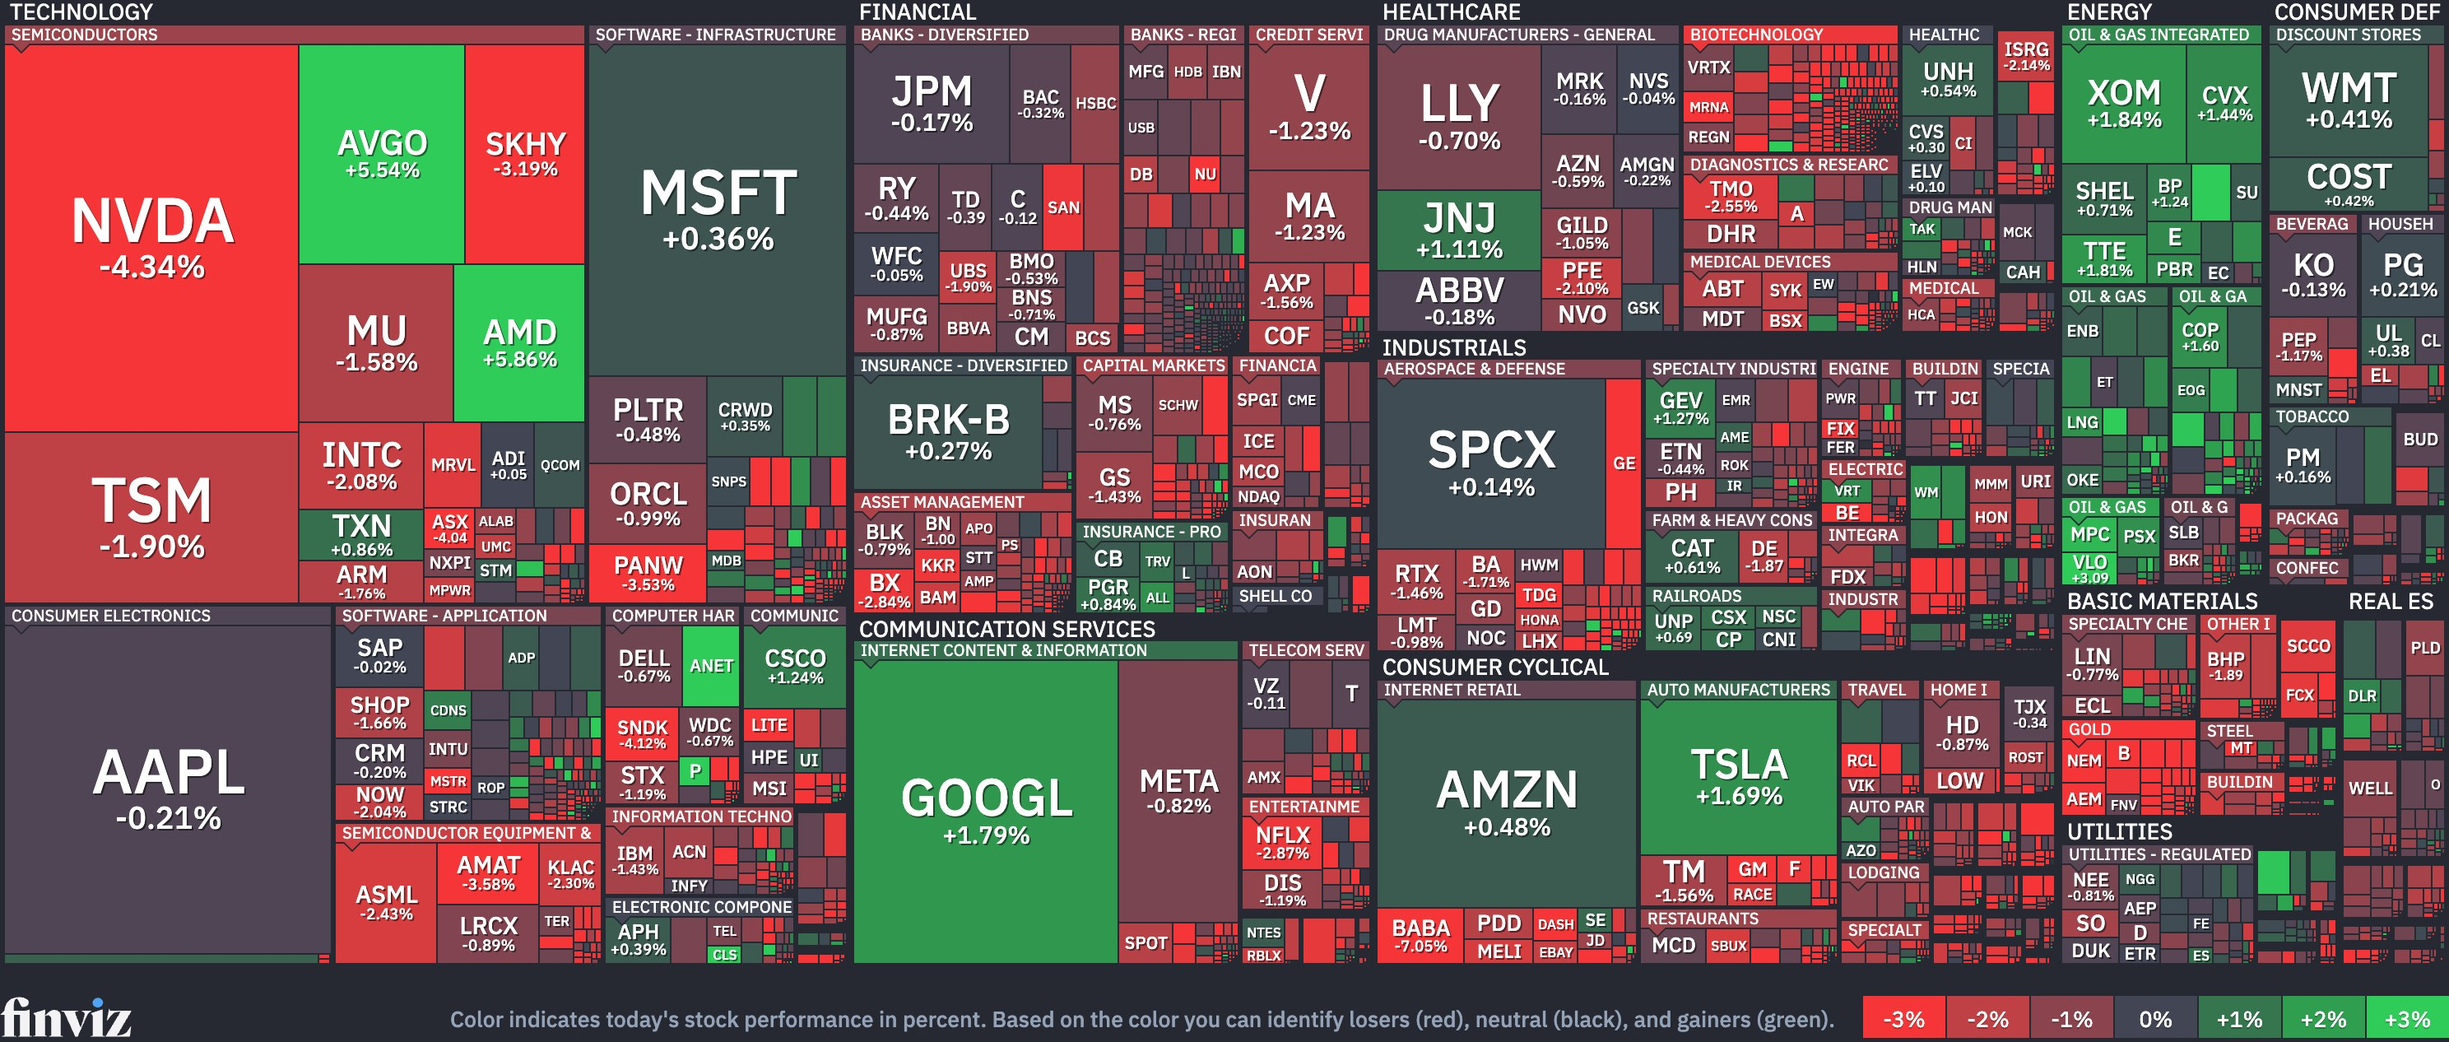
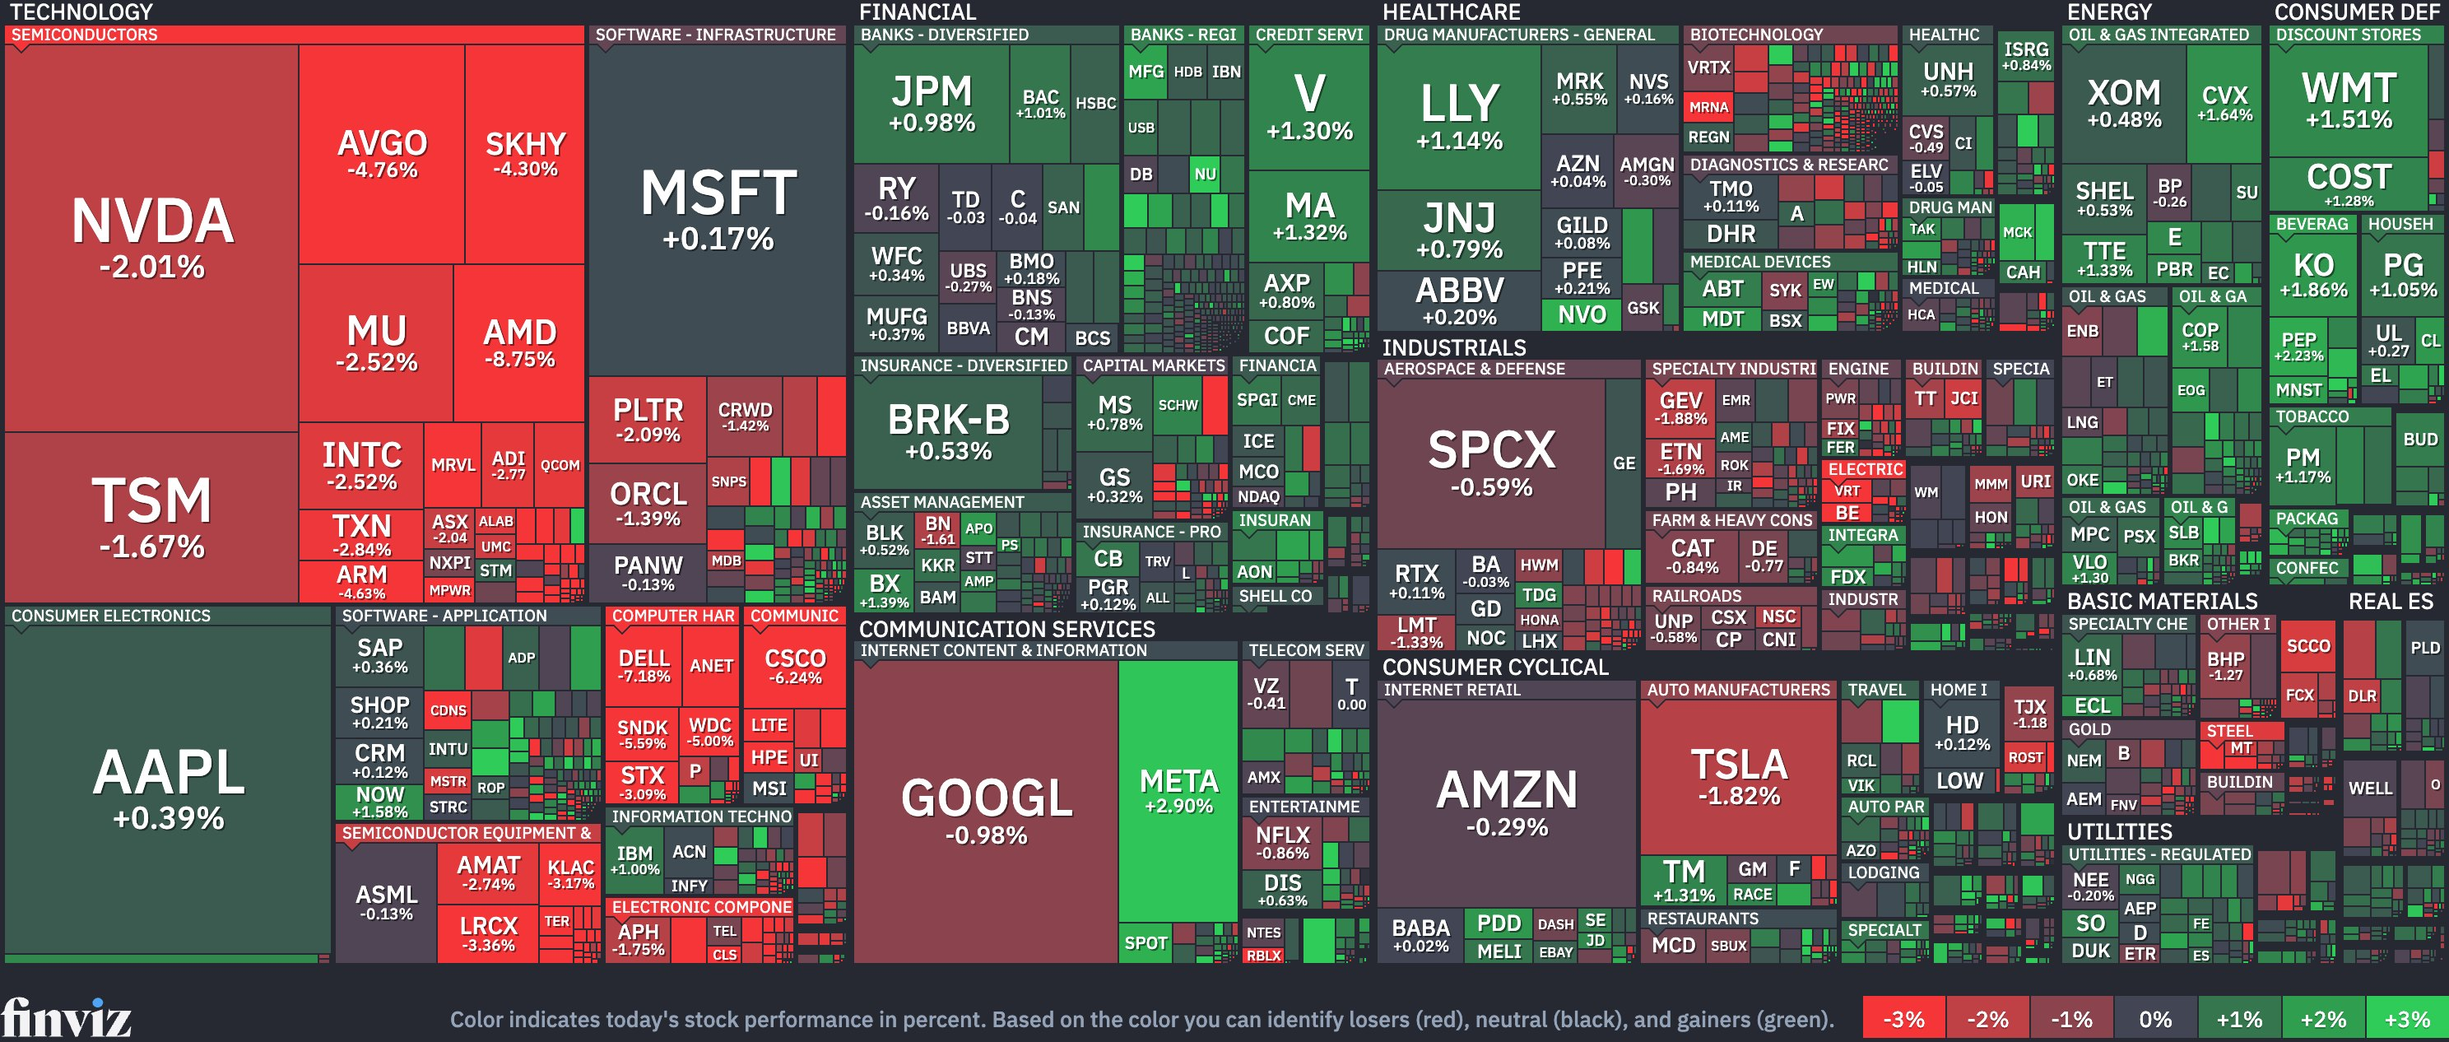
STOCK MAP 갱신 Fri NOV 13, 7:50 PM ET

diff --git a/index.html b/index.html
@@ -117,7 +117,7 @@ footer{margin-top:34px;font-size:12px;color:#7A867C;text-align:center;line-heigh
 <div class="hd"><div class="kicker">STRUCTURE &amp; BOTTLENECKS</div><h1>Report Vault</h1>
 <p>매크로·산업·기업 분석 기록을 모아 읽는 보고서 자료실.</p></div>
 <div class="board"><div class="bhd"><span class="bt">MARKET BOARD</span><span class="bu">11/14 09:50 KST 기준</span></div><div class="bgrid main"><div class="tile up"><div class="tl">DJIA</div><div class="tv">52,347.55</div><div class="tc">▲ +50.46<span class="tp">+0.10%</span></div><svg class="spk" viewBox="0 0 100 26" preserveAspectRatio="none" role="img" aria-label="최근 1개월 10-12→11-13 · 최저 51,285.73 · 최고 53,356.12 · +1.0%"><title>최근 1개월 10-12→11-13 · 최저 51,285.73 · 최고 53,356.12 · +1.0%</title><polygon points="0,26 0.0,18.0 4.2,19.9 8.3,20.4 12.5,14.5 16.7,16.4 20.8,16.8 25.0,11.1 29.2,7.3 33.3,7.2 37.5,14.1 41.7,12.6 45.8,12.4 50.0,11.4 54.2,12.8 58.3,18.9 62.5,16.6 66.7,18.7 70.8,2.0 75.0,21.5 79.2,24.0 83.3,12.3 87.5,13.9 91.7,11.2 95.8,13.3 100.0,12.7 100,26" fill="#1F8A5B" fill-opacity=".10"/><polyline points="0.0,18.0 4.2,19.9 8.3,20.4 12.5,14.5 16.7,16.4 20.8,16.8 25.0,11.1 29.2,7.3 33.3,7.2 37.5,14.1 41.7,12.6 45.8,12.4 50.0,11.4 54.2,12.8 58.3,18.9 62.5,16.6 66.7,18.7 70.8,2.0 75.0,21.5 79.2,24.0 83.3,12.3 87.5,13.9 91.7,11.2 95.8,13.3 100.0,12.7" fill="none" stroke="#1F8A5B" stroke-width="1.6" vector-effect="non-scaling-stroke" stroke-linejoin="round"/></svg><span class="ta">TradingView · 4:53 PM EST</span></div><div class="tile down"><div class="tl">S&amp;P 500</div><div class="tv">7,561.67</div><div class="tc">▼ −30.73<span class="tp">−0.40%</span></div><svg class="spk" viewBox="0 0 100 26" preserveAspectRatio="none" role="img" aria-label="최근 1개월 10-12→11-13 · 최저 7,353.73 · 최고 7,807.24 · -3.1%"><title>최근 1개월 10-12→11-13 · 최저 7,353.73 · 최고 7,807.24 · -3.1%</title><polygon points="0,26 0.0,2.0 4.2,2.1 8.3,6.3 12.5,5.1 16.7,9.2 20.8,7.7 25.0,6.6 29.2,4.4 33.3,9.0 37.5,10.9 41.7,8.3 45.8,6.1 50.0,5.1 54.2,6.2 58.3,13.0 62.5,14.9 66.7,13.6 70.8,7.8 75.0,24.0 79.2,22.9 83.3,14.5 87.5,15.9 91.7,11.1 95.8,12.4 100.0,13.9 100,26" fill="#C0442E" fill-opacity=".10"/><polyline points="0.0,2.0 4.2,2.1 8.3,6.3 12.5,5.1 16.7,9.2 20.8,7.7 25.0,6.6 29.2,4.4 33.3,9.0 37.5,10.9 41.7,8.3 45.8,6.1 50.0,5.1 54.2,6.2 58.3,13.0 62.5,14.9 66.7,13.6 70.8,7.8 75.0,24.0 79.2,22.9 83.3,14.5 87.5,15.9 91.7,11.1 95.8,12.4 100.0,13.9" fill="none" stroke="#C0442E" stroke-width="1.6" vector-effect="non-scaling-stroke" stroke-linejoin="round"/></svg><span class="ta">TradingView · 4:53 PM EST</span></div><div class="tile down"><div class="tl">NASDAQ</div><div class="tv">25,136.273</div><div class="tc">▼ −229.820<span class="tp">−0.91%</span></div><svg class="spk" viewBox="0 0 100 26" preserveAspectRatio="none" role="img" aria-label="최근 1개월 10-12→11-13 · 최저 24,315.00 · 최고 27,245.90 · -7.7%"><title>최근 1개월 10-12→11-13 · 최저 24,315.00 · 최고 27,245.90 · -7.7%</title><polygon points="0,26 0.0,2.0 4.2,2.3 8.3,6.2 12.5,6.0 16.7,10.3 20.8,8.1 25.0,8.2 29.2,6.1 33.3,11.3 37.5,11.7 41.7,10.1 45.8,7.8 50.0,7.2 54.2,10.0 58.3,15.6 62.5,17.6 66.7,16.1 70.8,13.3 75.0,24.0 79.2,22.0 83.3,17.0 87.5,18.4 91.7,15.4 95.8,16.1 100.0,17.8 100,26" fill="#C0442E" fill-opacity=".10"/><polyline points="0.0,2.0 4.2,2.3 8.3,6.2 12.5,6.0 16.7,10.3 20.8,8.1 25.0,8.2 29.2,6.1 33.3,11.3 37.5,11.7 41.7,10.1 45.8,7.8 50.0,7.2 54.2,10.0 58.3,15.6 62.5,17.6 66.7,16.1 70.8,13.3 75.0,24.0 79.2,22.0 83.3,17.0 87.5,18.4 91.7,15.4 95.8,16.1 100.0,17.8" fill="none" stroke="#C0442E" stroke-width="1.6" vector-effect="non-scaling-stroke" stroke-linejoin="round"/></svg><span class="ta">TradingView · 7:49 PM EST</span></div><div class="tile down"><div class="tl">RUSSELL 2000</div><div class="tv">2,790.49</div><div class="tc">▼ −8.57<span class="tp">−0.31%</span></div><svg class="spk" viewBox="0 0 100 26" preserveAspectRatio="none" role="img" aria-label="최근 1개월 10-12→11-13 · 최저 2,721.37 · 최고 2,859.22 · -0.1%"><title>최근 1개월 10-12→11-13 · 최저 2,721.37 · 최고 2,859.22 · -0.1%</title><polygon points="0,26 0.0,12.3 4.2,14.1 8.3,22.7 12.5,16.7 16.7,24.0 20.8,22.9 25.0,15.7 29.2,14.5 33.3,14.0 37.5,15.3 41.7,13.6 45.8,8.4 50.0,6.6 54.2,2.0 58.3,9.6 62.5,10.5 66.7,9.5 70.8,2.4 75.0,22.6 79.2,18.8 83.3,4.9 87.5,8.0 91.7,4.1 95.8,11.6 100.0,13.0 100,26" fill="#C0442E" fill-opacity=".10"/><polyline points="0.0,12.3 4.2,14.1 8.3,22.7 12.5,16.7 16.7,24.0 20.8,22.9 25.0,15.7 29.2,14.5 33.3,14.0 37.5,15.3 41.7,13.6 45.8,8.4 50.0,6.6 54.2,2.0 58.3,9.6 62.5,10.5 66.7,9.5 70.8,2.4 75.0,22.6 79.2,18.8 83.3,4.9 87.5,8.0 91.7,4.1 95.8,11.6 100.0,13.0" fill="none" stroke="#C0442E" stroke-width="1.6" vector-effect="non-scaling-stroke" stroke-linejoin="round"/></svg><span class="ta">TradingView · 4:03 PM EST</span></div><div class="tile up"><div class="tl">US 10-YR</div><div class="tv">5.139%</div><div class="tc">▲ +0.006</div><svg class="spk" viewBox="0 0 100 26" preserveAspectRatio="none" role="img" aria-label="최근 1개월 10-12→11-13 · 최저 4.84 · 최고 5.24 · -1.6%"><title>최근 1개월 10-12→11-13 · 최저 4.84 · 최고 5.24 · -1.6%</title><polygon points="0,26 0.0,2.0 4.2,3.3 8.3,4.7 12.5,10.2 16.7,9.8 20.8,7.7 25.0,8.7 29.2,7.1 33.3,17.7 37.5,15.8 41.7,15.9 45.8,15.5 50.0,12.6 54.2,15.7 58.3,19.0 62.5,20.9 66.7,17.7 70.8,20.9 75.0,24.0 79.2,22.8 83.3,22.5 87.5,16.0 91.7,15.2 95.8,9.5 100.0,6.7 100,26" fill="#C0442E" fill-opacity=".10"/><polyline points="0.0,2.0 4.2,3.3 8.3,4.7 12.5,10.2 16.7,9.8 20.8,7.7 25.0,8.7 29.2,7.1 33.3,17.7 37.5,15.8 41.7,15.9 45.8,15.5 50.0,12.6 54.2,15.7 58.3,19.0 62.5,20.9 66.7,17.7 70.8,20.9 75.0,24.0 79.2,22.8 83.3,22.5 87.5,16.0 91.7,15.2 95.8,9.5 100.0,6.7" fill="none" stroke="#C0442E" stroke-width="1.6" vector-effect="non-scaling-stroke" stroke-linejoin="round"/></svg><span class="ta">TradingView · 5:30 PM EST</span></div><div class="tile down"><div class="tl">US 2-YR</div><div class="tv">4.852%</div><div class="tc">▼ −0.032</div><svg class="spk" viewBox="0 0 100 26" preserveAspectRatio="none" role="img" aria-label="최근 1개월 10-13→11-12 · 최저 4.46 · 최고 4.86 · +1.5%"><title>최근 1개월 10-13→11-12 · 최저 4.46 · 최고 4.86 · +1.5%</title><polygon points="0,26 0.0,5.9 4.8,4.2 9.5,7.0 14.3,8.6 19.0,7.0 23.8,5.9 28.6,4.8 33.3,13.5 38.1,11.3 42.9,11.9 47.6,10.8 52.4,12.5 57.1,15.7 61.9,18.5 66.7,16.9 71.4,15.7 76.2,17.4 81.0,24.0 85.7,21.3 90.5,18.5 95.2,9.1 100.0,2.0 100,26" fill="#1F8A5B" fill-opacity=".10"/><polyline points="0.0,5.9 4.8,4.2 9.5,7.0 14.3,8.6 19.0,7.0 23.8,5.9 28.6,4.8 33.3,13.5 38.1,11.3 42.9,11.9 47.6,10.8 52.4,12.5 57.1,15.7 61.9,18.5 66.7,16.9 71.4,15.7 76.2,17.4 81.0,24.0 85.7,21.3 90.5,18.5 95.2,9.1 100.0,2.0" fill="none" stroke="#1F8A5B" stroke-width="1.6" vector-effect="non-scaling-stroke" stroke-linejoin="round"/></svg><span class="ta">TradingView · 5:30 PM EST</span></div><div class="tile up"><div class="tl">GOLD</div><div class="tv">3,886.30</div><div class="tc">▲ +1.00<span class="tp">+0.03%</span></div><svg class="spk" viewBox="0 0 100 26" preserveAspectRatio="none" role="img" aria-label="최근 1개월 10-12→11-13 · 최저 3,885.30 · 최고 4,190.60 · -7.2%"><title>최근 1개월 10-12→11-13 · 최저 3,885.30 · 최고 4,190.60 · -7.2%</title><polygon points="0,26 0.0,2.0 4.2,3.0 8.3,8.0 12.5,3.5 16.7,2.7 20.8,4.2 25.0,5.5 29.2,4.9 33.3,11.4 37.5,15.2 41.7,13.0 45.8,10.4 50.0,12.0 54.2,13.5 58.3,23.0 62.5,17.9 66.7,20.0 70.8,10.5 75.0,7.6 79.2,10.3 83.3,7.5 87.5,13.6 91.7,15.7 95.8,24.0 100.0,23.8 100,26" fill="#C0442E" fill-opacity=".10"/><polyline points="0.0,2.0 4.2,3.0 8.3,8.0 12.5,3.5 16.7,2.7 20.8,4.2 25.0,5.5 29.2,4.9 33.3,11.4 37.5,15.2 41.7,13.0 45.8,10.4 50.0,12.0 54.2,13.5 58.3,23.0 62.5,17.9 66.7,20.0 70.8,10.5 75.0,7.6 79.2,10.3 83.3,7.5 87.5,13.6 91.7,15.7 95.8,24.0 100.0,23.8" fill="none" stroke="#C0442E" stroke-width="1.6" vector-effect="non-scaling-stroke" stroke-linejoin="round"/></svg><span class="ta">TradingView · 6:14 PM EST</span></div><div class="tile down"><div class="tl">OIL</div><div class="tv">88.56</div><div class="tc">▼ −0.18<span class="tp">−0.20%</span></div><svg class="spk" viewBox="0 0 100 26" preserveAspectRatio="none" role="img" aria-label="최근 1개월 10-12→11-13 · 최저 86.04 · 최고 104.12 · -5.1%"><title>최근 1개월 10-12→11-13 · 최저 86.04 · 최고 104.12 · -5.1%</title><polygon points="0,26 0.0,14.6 4.2,14.1 8.3,13.0 12.5,9.5 16.7,5.3 20.8,2.6 25.0,4.8 29.2,10.5 33.3,7.7 37.5,3.0 41.7,4.9 45.8,7.1 50.0,3.6 54.2,4.6 58.3,2.0 62.5,11.3 66.7,11.8 70.8,21.5 75.0,18.5 79.2,18.2 83.3,23.0 87.5,24.0 91.7,23.4 95.8,20.7 100.0,20.5 100,26" fill="#C0442E" fill-opacity=".10"/><polyline points="0.0,14.6 4.2,14.1 8.3,13.0 12.5,9.5 16.7,5.3 20.8,2.6 25.0,4.8 29.2,10.5 33.3,7.7 37.5,3.0 41.7,4.9 45.8,7.1 50.0,3.6 54.2,4.6 58.3,2.0 62.5,11.3 66.7,11.8 70.8,21.5 75.0,18.5 79.2,18.2 83.3,23.0 87.5,24.0 91.7,23.4 95.8,20.7 100.0,20.5" fill="none" stroke="#C0442E" stroke-width="1.6" vector-effect="non-scaling-stroke" stroke-linejoin="round"/></svg><span class="ta">TradingView · 5:10 PM EST</span></div></div><div class="bgrid risk"><div class="tile down"><div class="tl">F&amp;G</div><div class="tv">39</div><div class="tc">▼ −1<span class="tg fg-f">공포</span></div><svg class="spk" viewBox="0 0 100 26" preserveAspectRatio="none" role="img" aria-label="최근 1개월 10-12→11-13 · 최저 16.69 · 최고 45.60 · -14.7%"><title>최근 1개월 10-12→11-13 · 최저 16.69 · 최고 45.60 · -14.7%</title><polygon points="0,26 0.0,2.3 4.2,2.0 8.3,14.8 12.5,12.3 16.7,22.8 20.8,21.9 25.0,14.8 29.2,13.7 33.3,21.5 37.5,24.0 41.7,14.0 45.8,11.7 50.0,10.5 54.2,13.3 58.3,16.7 62.5,21.9 66.7,18.8 70.8,10.7 75.0,21.5 79.2,18.2 83.3,12.7 87.5,8.3 91.7,9.4 95.8,6.0 100.0,7.3 100,26" fill="#C0442E" fill-opacity=".10"/><polyline points="0.0,2.3 4.2,2.0 8.3,14.8 12.5,12.3 16.7,22.8 20.8,21.9 25.0,14.8 29.2,13.7 33.3,21.5 37.5,24.0 41.7,14.0 45.8,11.7 50.0,10.5 54.2,13.3 58.3,16.7 62.5,21.9 66.7,18.8 70.8,10.7 75.0,21.5 79.2,18.2 83.3,12.7 87.5,8.3 91.7,9.4 95.8,6.0 100.0,7.3" fill="none" stroke="#C0442E" stroke-width="1.6" vector-effect="non-scaling-stroke" stroke-linejoin="round"/></svg><span class="ta">CNN · 11/13</span></div><div class="tile up"><div class="tl">VIX</div><div class="tv">19.30</div><div class="tc">▲ +0.60<span class="tp">+3.21%</span></div><svg class="spk" viewBox="0 0 100 26" preserveAspectRatio="none" role="img" aria-label="최근 1개월 10-12→11-13 · 최저 15.21 · 최고 28.18 · +26.9%"><title>최근 1개월 10-12→11-13 · 최저 15.21 · 최고 28.18 · +26.9%</title><polygon points="0,26 0.0,24.0 4.2,23.9 8.3,21.2 12.5,21.9 16.7,15.9 20.8,18.5 25.0,20.4 29.2,21.5 33.3,17.5 37.5,16.8 41.7,18.6 45.8,20.1 50.0,21.1 54.2,20.6 58.3,16.9 62.5,13.9 66.7,14.5 70.8,21.6 75.0,2.0 79.2,6.3 83.3,16.0 87.5,16.8 91.7,20.1 95.8,18.1 100.0,17.1 100,26" fill="#1F8A5B" fill-opacity=".10"/><polyline points="0.0,24.0 4.2,23.9 8.3,21.2 12.5,21.9 16.7,15.9 20.8,18.5 25.0,20.4 29.2,21.5 33.3,17.5 37.5,16.8 41.7,18.6 45.8,20.1 50.0,21.1 54.2,20.6 58.3,16.9 62.5,13.9 66.7,14.5 70.8,21.6 75.0,2.0 79.2,6.3 83.3,16.0 87.5,16.8 91.7,20.1 95.8,18.1 100.0,17.1" fill="none" stroke="#1F8A5B" stroke-width="1.6" vector-effect="non-scaling-stroke" stroke-linejoin="round"/></svg><span class="ta">TradingView · 4:30 PM EST</span></div><div class="tile up"><div class="tl">BITCOIN</div><div class="tv">68,349</div><div class="tc">▲ +117<span class="tp">+0.17%</span></div><svg class="spk" viewBox="0 0 100 26" preserveAspectRatio="none" role="img" aria-label="최근 1개월 10-12→11-14 · 최저 68,303.54 · 최고 84,011.97 · -16.5%"><title>최근 1개월 10-12→11-14 · 최저 68,303.54 · 최고 84,011.97 · -16.5%</title><polygon points="0,26 0.0,5.2 3.1,3.3 6.2,5.4 9.4,4.6 12.5,5.5 15.6,5.7 18.8,4.8 21.9,5.0 25.0,3.5 28.1,2.0 31.2,5.8 34.4,6.1 37.5,6.5 40.6,7.6 43.8,7.6 46.9,6.5 50.0,5.8 53.1,10.7 56.2,11.5 59.4,11.2 62.5,10.1 65.6,12.3 68.8,11.3 71.9,7.1 75.0,13.3 78.1,13.6 81.2,13.6 84.4,15.2 87.5,14.3 90.6,16.4 93.8,16.1 96.9,19.7 100.0,24.0 100,26" fill="#C0442E" fill-opacity=".10"/><polyline points="0.0,5.2 3.1,3.3 6.2,5.4 9.4,4.6 12.5,5.5 15.6,5.7 18.8,4.8 21.9,5.0 25.0,3.5 28.1,2.0 31.2,5.8 34.4,6.1 37.5,6.5 40.6,7.6 43.8,7.6 46.9,6.5 50.0,5.8 53.1,10.7 56.2,11.5 59.4,11.2 62.5,10.1 65.6,12.3 68.8,11.3 71.9,7.1 75.0,13.3 78.1,13.6 81.2,13.6 84.4,15.2 87.5,14.3 90.6,16.4 93.8,16.1 96.9,19.7 100.0,24.0" fill="none" stroke="#C0442E" stroke-width="1.6" vector-effect="non-scaling-stroke" stroke-linejoin="round"/></svg><span class="ta">TradingView · 7:49 PM EST</span></div><div class="tile up"><div class="tl">USD/KRW</div><div class="tv">1,335.80</div><div class="tc">▲ +0.52<span class="tp">+0.04%</span></div><svg class="spk" viewBox="0 0 100 26" preserveAspectRatio="none" role="img" aria-label="최근 1개월 10-12→11-13 · 최저 1,321.76 · 최고 1,362.70 · -0.5%"><title>최근 1개월 10-12→11-13 · 최저 1,321.76 · 최고 1,362.70 · -0.5%</title><polygon points="0,26 0.0,13.7 4.2,17.4 8.3,14.0 12.5,14.5 16.7,13.7 20.8,17.7 25.0,19.6 29.2,22.8 33.3,21.9 37.5,21.7 41.7,24.0 45.8,22.4 50.0,21.3 54.2,14.0 58.3,15.3 62.5,22.0 66.7,11.6 70.8,12.6 75.0,14.2 79.2,5.4 83.3,2.0 87.5,12.1 91.7,13.2 95.8,16.2 100.0,17.5 100,26" fill="#C0442E" fill-opacity=".10"/><polyline points="0.0,13.7 4.2,17.4 8.3,14.0 12.5,14.5 16.7,13.7 20.8,17.7 25.0,19.6 29.2,22.8 33.3,21.9 37.5,21.7 41.7,24.0 45.8,22.4 50.0,21.3 54.2,14.0 58.3,15.3 62.5,22.0 66.7,11.6 70.8,12.6 75.0,14.2 79.2,5.4 83.3,2.0 87.5,12.1 91.7,13.2 95.8,16.2 100.0,17.5" fill="none" stroke="#C0442E" stroke-width="1.6" vector-effect="non-scaling-stroke" stroke-linejoin="round"/></svg><span class="ta">TradingView · 5:00 PM EST</span></div><div class="tile up"><div class="tl">DOLLAR INDEX</div><div class="tv">103.41</div><div class="tc">▲ +0.24<span class="tp">+0.23%</span></div><svg class="spk" viewBox="0 0 100 26" preserveAspectRatio="none" role="img" aria-label="최근 1개월 10-12→11-13 · 최저 101.51 · 최고 103.41 · +0.8%"><title>최근 1개월 10-12→11-13 · 최저 101.51 · 최고 103.41 · +0.8%</title><polygon points="0,26 0.0,11.6 4.2,16.2 8.3,12.0 12.5,18.3 16.7,20.2 20.8,18.6 25.0,21.5 29.2,20.9 33.3,22.8 37.5,20.5 41.7,18.8 45.8,14.6 50.0,16.1 54.2,17.9 58.3,19.7 62.5,21.2 66.7,19.8 70.8,24.0 75.0,23.5 79.2,14.9 83.3,22.4 87.5,15.7 91.7,7.8 95.8,4.8 100.0,2.0 100,26" fill="#1F8A5B" fill-opacity=".10"/><polyline points="0.0,11.6 4.2,16.2 8.3,12.0 12.5,18.3 16.7,20.2 20.8,18.6 25.0,21.5 29.2,20.9 33.3,22.8 37.5,20.5 41.7,18.8 45.8,14.6 50.0,16.1 54.2,17.9 58.3,19.7 62.5,21.2 66.7,19.8 70.8,24.0 75.0,23.5 79.2,14.9 83.3,22.4 87.5,15.7 91.7,7.8 95.8,4.8 100.0,2.0" fill="none" stroke="#1F8A5B" stroke-width="1.6" vector-effect="non-scaling-stroke" stroke-linejoin="round"/></svg><span class="ta">TradingView · 5:00 PM EST</span></div><div class="tile down"><div class="tl">RPONTSYD</div><div class="tv">$0.000B</div><div class="tc">▼ −0.001</div><svg class="spk" viewBox="0 0 100 26" preserveAspectRatio="none" role="img" aria-label="최근 1개월 10-13→11-13 · 최저 0.00 · 최고 0.11"><title>최근 1개월 10-13→11-13 · 최저 0.00 · 최고 0.11</title><polygon points="0,26 0.0,24.0 4.5,23.8 9.1,2.0 13.6,24.0 18.2,21.8 22.7,24.0 27.3,24.0 31.8,23.8 36.4,24.0 40.9,23.6 45.5,23.8 50.0,23.6 54.5,21.8 59.1,24.0 63.6,23.6 68.2,24.0 72.7,24.0 77.3,24.0 81.8,24.0 86.4,23.4 90.9,23.6 95.5,23.8 100.0,24.0 100,26" fill="#1F8A5B" fill-opacity=".10"/><polyline points="0.0,24.0 4.5,23.8 9.1,2.0 13.6,24.0 18.2,21.8 22.7,24.0 27.3,24.0 31.8,23.8 36.4,24.0 40.9,23.6 45.5,23.8 50.0,23.6 54.5,21.8 59.1,24.0 63.6,23.6 68.2,24.0 72.7,24.0 77.3,24.0 81.8,24.0 86.4,23.4 90.9,23.6 95.5,23.8 100.0,24.0" fill="none" stroke="#1F8A5B" stroke-width="1.6" vector-effect="non-scaling-stroke" stroke-linejoin="round"/></svg><span class="ta">FRED · 11/13</span></div></div></div>
-<div class="smap"><div class="bhd"><span class="bt">STOCK MAP</span><span class="bu">finviz · Thu NOV 12, 6:43 PM ET 기준</span></div><a href="https://finviz.com/map?t=sec_all" target="_blank" rel="noopener noreferrer"><img src="stockmap/stock_map.jpg?v=1794527044" alt="S&amp;P 섹터 지도(finviz)" loading="lazy"></a></div>
+<div class="smap"><div class="bhd"><span class="bt">STOCK MAP</span><span class="bu">finviz · Fri NOV 13, 7:50 PM ET 기준</span></div><a href="https://finviz.com/map?t=sec_all" target="_blank" rel="noopener noreferrer"><img src="stockmap/stock_map.jpg?v=1794617457" alt="S&amp;P 섹터 지도(finviz)" loading="lazy"></a></div>
 <div class="launch"><div class="bhd"><span class="bt">DASHBOARDS</span></div><div class="lgrid"><a class="lbtn" href="https://gaemi-street-journal.github.io/secz-star-map/" target="_blank" rel="noopener noreferrer"><span class="li">✦</span><span class="lt"><b>SECZ 경쟁·협업 별 지도</b><small>시청자 공개판 · 생애주기 9단계 · 새 창</small></span><span class="la">→</span></a><a class="lbtn" href="reports/2026-11-11_iren-infrastructure-globe.html"><span class="li">◎</span><span class="lt"><b>IREN 데이터센터 지구본</b><small>사이트·정치 규제 반영 · 시간 탭 · 최신 11/11</small></span><span class="la">→</span></a><a class="lbtn" href="reports/iren-infrastructure.html"><span class="li">▦</span><span class="lt"><b>IREN 인프라 대시보드</b><small>부지 × 단계 색 칸 · 매일 원장에서 생성 · 고정 주소</small></span><span class="la">→</span></a><a class="lbtn" href="reports/iren-financials.html"><span class="li">▤</span><span class="lt"><b>IREN 재무 대시보드</b><small>분기 공시판 · FY26 확정 · FY27 전망 · 자금조달</small></span><span class="la">→</span></a><a class="lbtn" href="reports/2026-10-12_ai-money-flow-map.html"><span class="li">≈</span><span class="lt"><b>AI 돈의 흐름 지도</b><small>v0.3.1 · 광고주 노드 · 5층 접기 · 자금 원장 · 회수 게이지 2.0</small></span><span class="la">→</span></a><a class="lbtn" href="reports/2026-11-13_daily-brief.html"><span class="li">▤</span><span class="lt"><b>Daily-briefing</b><small>Skill-Daily 통합 보고서 · 최신 11/13</small></span><span class="la">→</span></a></div></div>
 <div class="layout">
 <aside id="nav"><button class="nav all active" data-kind="all"><span class="nm">전체</span><span class="ct">1328</span></button>
